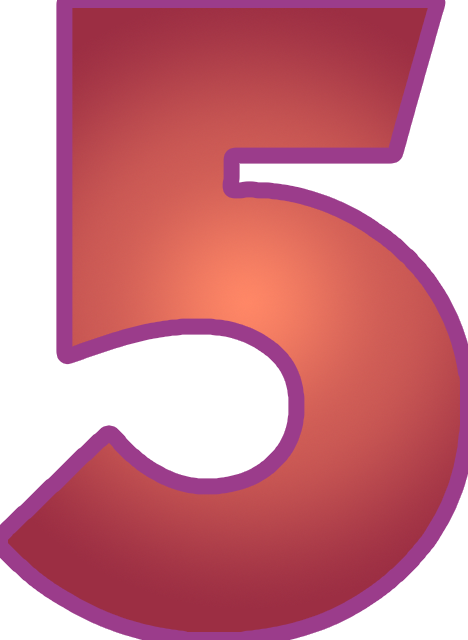
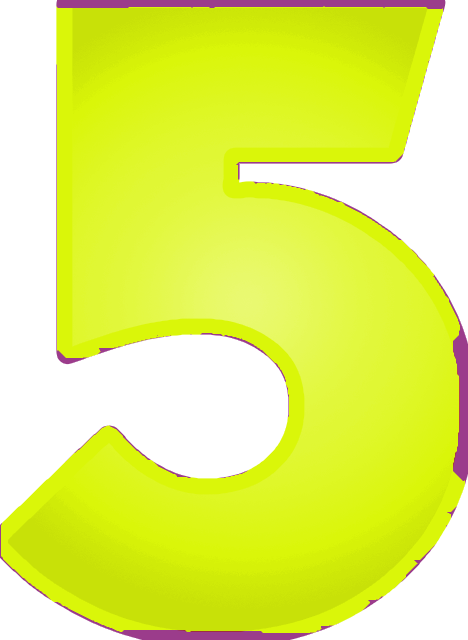
Change color numbers and line

diff --git a/src/Preloader.js b/src/Preloader.js
@@ -32,19 +32,19 @@ TuxGame.Preloader.prototype = {
     this.load.image('wrong', 'img/block2/game1/wrong.png?a');
 
     // Number assets
-    this.load.image('number0', 'img/block2/game1/number_0.png?vb');
-    this.load.image('number1', 'img/block2/game1/number_1.png?vb');
-    this.load.image('number2', 'img/block2/game1/number_2.png?vb');
-    this.load.image('number3', 'img/block2/game1/number_3.png?vb');
-    this.load.image('number4', 'img/block2/game1/number_4.png?vb');
-    this.load.image('number5', 'img/block2/game1/number_5.png?vb');
-    this.load.image('number6', 'img/block2/game1/number_6.png?vb');
-    this.load.image('number7', 'img/block2/game1/number_7.png?vb');
-    this.load.image('number8', 'img/block2/game1/number_8.png?vb');
-    this.load.image('number9', 'img/block2/game1/number_9.png?vb');
+    this.load.image('number0', 'img/block2/game1/number_0.png?v=1');
+    this.load.image('number1', 'img/block2/game1/number_1.png?v=1');
+    this.load.image('number2', 'img/block2/game1/number_2.png?v=1');
+    this.load.image('number3', 'img/block2/game1/number_3.png?v=1');
+    this.load.image('number4', 'img/block2/game1/number_4.png?v=1');
+    this.load.image('number5', 'img/block2/game1/number_5.png?v=1');
+    this.load.image('number6', 'img/block2/game1/number_6.png?v=1');
+    this.load.image('number7', 'img/block2/game1/number_7.png?v=1');
+    this.load.image('number8', 'img/block2/game1/number_8.png?v=1');
+    this.load.image('number9', 'img/block2/game1/number_9.png?v=1');
     this.load.image('numberDot', 'img/block2/game1/number_dot.jpg');
     this.load.image('fishHook', 'img/block2/game1/fish_hook.png?vc');
-    this.load.image('line', 'img/block2/game1/line.png?v=5');
+    this.load.image('line', 'img/block2/game1/line.png?v=1');
 
     this.load.image('monster-cover', 'img/monster-cover.png');
     this.load.image('title', 'img/title.png');
